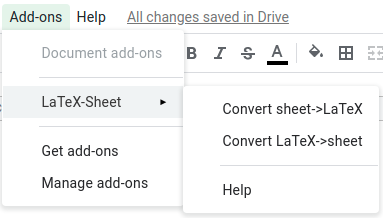
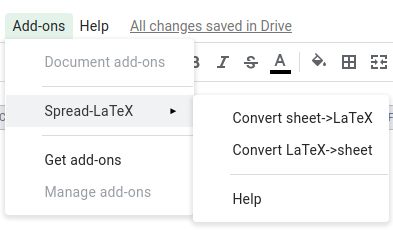
Added alert for clearing the sheet before converting LaTeX to a spreadsheet table. Changed the name "LaTeX-Sheet" to "Spread-LaTeX".

diff --git a/LaTeX2Sheet.js b/LaTeX2Sheet.js
@@ -27,20 +27,26 @@ function trimStart(str, substr) {
 function latexToSheet() {
 //  var spreadsheet = SpreadsheetApp.openById('11VL3bqvCkUJb-v_zRbscAiI--Y3b4YYdyGopZUv05k0');
 //  var range = spreadsheet.getSheetByName("table maker").getDataRange()
-//    var sheet = spreadsheet.getSheetByName("test")
-//  if (sheet ==null){
-//    spreadsheet.insertSheet("test");
-//    sheet = spreadsheet.getActiveSheet();
-//  }else{
-//    sheet.clear()
-//  }
-  
+
     var range = SpreadsheetApp.getActiveSpreadsheet().getActiveSheet().getDataRange();
     var latexCode = range.getValues().join(" ");
-
+  
     // convert latex code to the table.
-    var sheet = SpreadsheetApp.getActiveSpreadsheet().getActiveSheet();
-    sheet.clear();
+    var sheet;
+    var result = SpreadsheetApp.getUi().alert("Clear the current sheet for the new table?", SpreadsheetApp.getUi().ButtonSet.YES_NO_CANCEL)
+    if (result == "YES"){
+      sheet = SpreadsheetApp.getActiveSpreadsheet().getActiveSheet();
+      sheet.clear();
+    }else if(result == "NO"){
+      sheet = SpreadsheetApp.getActiveSpreadsheet().insertSheet();
+    }else {
+      return 0;
+    }
+  
+    
+
+    
+    
 
 
     var rowIndex = 1;

diff --git a/Code.js b/Code.js
@@ -6,18 +6,18 @@ function onInstall(e) {
  * A special function that runs when the spreadsheet is open, used to add a
  * custom menu to the spreadsheet.
  */
-function onOpen() {  
+function onOpen(e) {  
   SpreadsheetApp.getUi().createAddonMenu()
   .addItem('Convert sheet->LaTeX', 'sheetToLatex')
   .addItem('Convert LaTeX->sheet', 'latexToSheet')
   .addSeparator()
-  .addItem('Help', 'help')
+  .addItem('Support', 'support')
   .addToUi()
 }
 
-function help() {
-  var html = HtmlService.createHtmlOutputFromFile("Help").setHeight(88);
-  SpreadsheetApp.getUi().showModalDialog(html, "help")
+function support() {
+  var html = HtmlService.createHtmlOutputFromFile("Support").setHeight(88);
+  SpreadsheetApp.getUi().showModalDialog(html, "Support")
 }
 
 

diff --git a/Sheet2LaTeX.js b/Sheet2LaTeX.js
@@ -2,12 +2,12 @@
 function sheetToLatex(){ 
   var ui = SpreadsheetApp.getUi();
   var lineBreak = "<br>";
-  var title = "Generated by LaTeX-Sheet" ;
+  var title = "Generated by Spread-LaTeX" ;
   
   //get number of rows for column names for determining midrule border
   var result = ui.prompt("Number of the rows for the column names:",
       ui.ButtonSet.OK_CANCEL);
-  if (result.getSelectedButton() == 'CANCEL'){
+  if (result.getSelectedButton() != 'OK'){
     return 0;
   }
   

diff --git a/README.md b/README.md
@@ -1,30 +1,31 @@
-<h1 align = "center">LaTeX-Sheet</h1>
+<h1 align = "center">Spread-LaTeX</h1>
 <p align = "center"> Latest update (October 10, 2019) </p>
 
-The add-on is applied to convert a table in Google Spreadsheet to a LaTeX table or convert a LaTeX table to a Google Spreadsheet table.<p>
+The add-on is for converting a Google spreadsheet table to a LaTeX table or a LaTeX table to a Google Spreadsheet table.<p>
 
 ![menu](menu.png)  &nbsp;&nbsp;&nbsp;&nbsp;&nbsp; ![sample](sample.png)
 <p><b> Description:</b></p><br> 
-It is rather painful to migrate information in a spreadsheet table to LaTeX or restore a spreadsheet table from LaTeX.  
-LaTeX-Sheet add-on is built to solve this problem. It simply contains two functions: 
+
+It is rather painful to migrate information from a spreadsheet table to LaTeX or restore a spreadsheet table from LaTeX.  
+Spread-LaTeX add-on is built to solve this problem. It simply contains two functions: 
 convert a selected Google Spreadsheet table to a LaTeX table and convert a LaTeX table to a Google Spreadsheet table.<p>
 
-====================<b><i> How to use LaTeX-Sheet? </i></b>=====================<br>
+====================<b><i> How to use Spread-LaTeX? </i></b>=====================<br>
 Install the add-on:<br> 
 (1) open a Google Spreadsheet, <br>
-(2) click "Add-ons" ---> "Get add-ons" ---> search "LaTeX-Sheet" and install. <br>
+(2) click "Add-ons" ---> "Get add-ons" ---> search "Spread-LaTeX" and install. <br>
 
 Convert a spreadsheet table to LaTeX: <br>
 (1) select a table in a Google Spreadsheet, <br> 
-(2) click "Add-ons" ---> "LaTeX-Sheet" ---> "Convert sheet->LaTeX", <br> 
+(2) click "Add-ons" ---> "Spread-LaTeX" ---> "Convert sheet->LaTeX", <br> 
 (3) a window will popup, type in the total number of rows for column names and click "OK", <br> 
 (4) select all the generated LaTeX code (e.g. Ctrl + A) and copy (e.g. Ctrl + C). <br>
 
 Convert a LaTeX table to a spreadsheet table:<br>
 (1) copy the LaTeX code between \toprule and \bottomrule of a table and paste it to any place in a Google spreadsheet,<br> 
-(2) click "Add-ons" ---> "LaTeX-Sheet" ---> "Convert LaTeX->sheet",<br> 
+(2) click "Add-ons" ---> "Spread-LaTeX" ---> "Convert LaTeX->sheet",<br> 
 (3) the current sheet will be cleaned and a generated table will be presented in the same sheet.<br> 
-<b><i>\*Errors may occur if the LaTeX table was not generated by LaTeX-Sheet.</i></b> 
+<b><i>\*Errors may occur if the LaTeX table was not generated by Spread-LaTeX.</i></b> 
 
 =========================<b><i> Settings </b></i>===========================</br>
 
@@ -32,7 +33,7 @@ Convert a LaTeX table to a spreadsheet table:<br>
 (2) Package {xcolor} is used for cell colours. <br>
 (3) Package {soul} is used for underlines. <br>
 (3) Environments {tabular} and {table} are used. <br>
-(4) Special LaTeX chars: only "%"s are replaced with "\%". The rest special LaTeX chars remains intact, 
+(4) Special LaTeX chars: only "%"s are replaced with "\\%". The rest special LaTeX chars remains intact, 
 given that they may not be plain text. For example, $x$ may be a mathematical notation.<br> 
 (5) For the purpose of simplicity, this add-on only reads the following information from a spreadsheet table: 
 <i> the data, data formats, highlights, font weights, underlines and merged ranges.</i><br> 
@@ -43,7 +44,7 @@ I enthusiastically welcome suggestions.
 
 <h3>Privacy Policy:</h3>
 
-I (“LaTeX-Sheet”, “I”, “me” or “my”) understand that privacy is essential to the users of my product (“users”, “you”, “your”). This policy describes the steps I take to maintain your privacy when you are using my G Suit add-on (“Service”, "LaTeX-Sheet"). By using my Service, you agree to the collection and use of information in accordance with this policy. 
+I (“Spread-LaTeX”, “I”, “me” or “my”) understand that privacy is essential to the users of my product (“users”, “you”, “your”). This policy describes the steps I take to maintain your privacy when you are using my G Suit add-on (“Service”, "Spread-LaTeX"). By using my Service, you agree to the collection and use of information in accordance with this policy. 
 
 1. Data collection and use:<br>
 The purpose of the Service is to provide a smooth connection between LaTeX and Google Spreadsheet. Therefore the Service only collects the data that is related to the Service's functions --- convert LaTeX->sheet and convert sheet->LaTeX. I do not record any data from the users. 
@@ -58,7 +59,7 @@ https://www.googleapis.com/auth/spreadsheets
 
 <h3>Terms of Service:</h3>
 
-Thank you for being interested in the LaTeX-Sheet add-on ("Service"). Please carefully review the terms outlined below before using the Service. 
+Thank you for being interested in the Spread-LaTeX add-on ("Service"). Please carefully review the terms outlined below before using the Service. 
 
 The Terms of Service, Privacy Policy and other content of this document may be updated to reflect changes to the Service. Upon making changes, I will update the “Latest update” found at the top of this document. Your continued use of the Service after any changes constitutes your acceptance of the new terms.
 
@@ -71,7 +72,7 @@ I reserve the right to change, suspend, or discontinue any part of the Service f
 2. Google Chrome Store <br>
 Use of the CloudLab Add-ons is subject to <a href="https://gsuite.google.com/terms/marketplace/tos.html?hl=en" > G Suite Marketplace Terms of Service</a>. <br>
 I am a developer subject to <a href = "https://developers.google.com/gsuite/marketplace/requirements">the G Suite Marketplace Application Requirements </a>. <br>
-The LaTeX-Sheet add-on is examined to ensure it meets Google’s guidelines, including guidelines for safeguarding user data, before they are publicly available. For more information, see <a href ="https://developers.google.com/gsuite/add-ons/concepts/addon-review"> add-on review </a>.
+The Spread-LaTeX add-on is examined to ensure it meets Google’s guidelines, including guidelines for safeguarding user data, before they are publicly available. For more information, see <a href ="https://developers.google.com/gsuite/add-ons/concepts/addon-review"> add-on review </a>.
 
 3. Disclaimer <br>
 The Service is free of charge. Further, while I am making every effort to ensure its functionality, the Service I develop exists within a fast-moving product ecosystem in which things break and may need to be fixed from time to time. I enthusiastically welcome all users of the Service as partners in its development and refinement, but I ask that you engage with me with the following norms when seeking my support:<br>
@@ -80,6 +81,6 @@ The Service is free of charge. Further, while I am making every effort to ensure
 (3) Use of the Service is at your own risk and I will not responsible for any damage to your computer system or loss of data that results from your use of the Service.
 
 4. Copyright <br>
-LaTeX-Sheet add-on is original and owned by me and protected by international copyright, and other intellectual property or proprietary rights laws. 
+Spread-LaTeX add-on is original and owned by me and protected by international copyright, and other intellectual property or proprietary rights laws. 
  
 <h3>Developer: <a href="https://sites.google.com/view/zhuyihang/home"> Yi-Hang Zhu</a> </h3>
